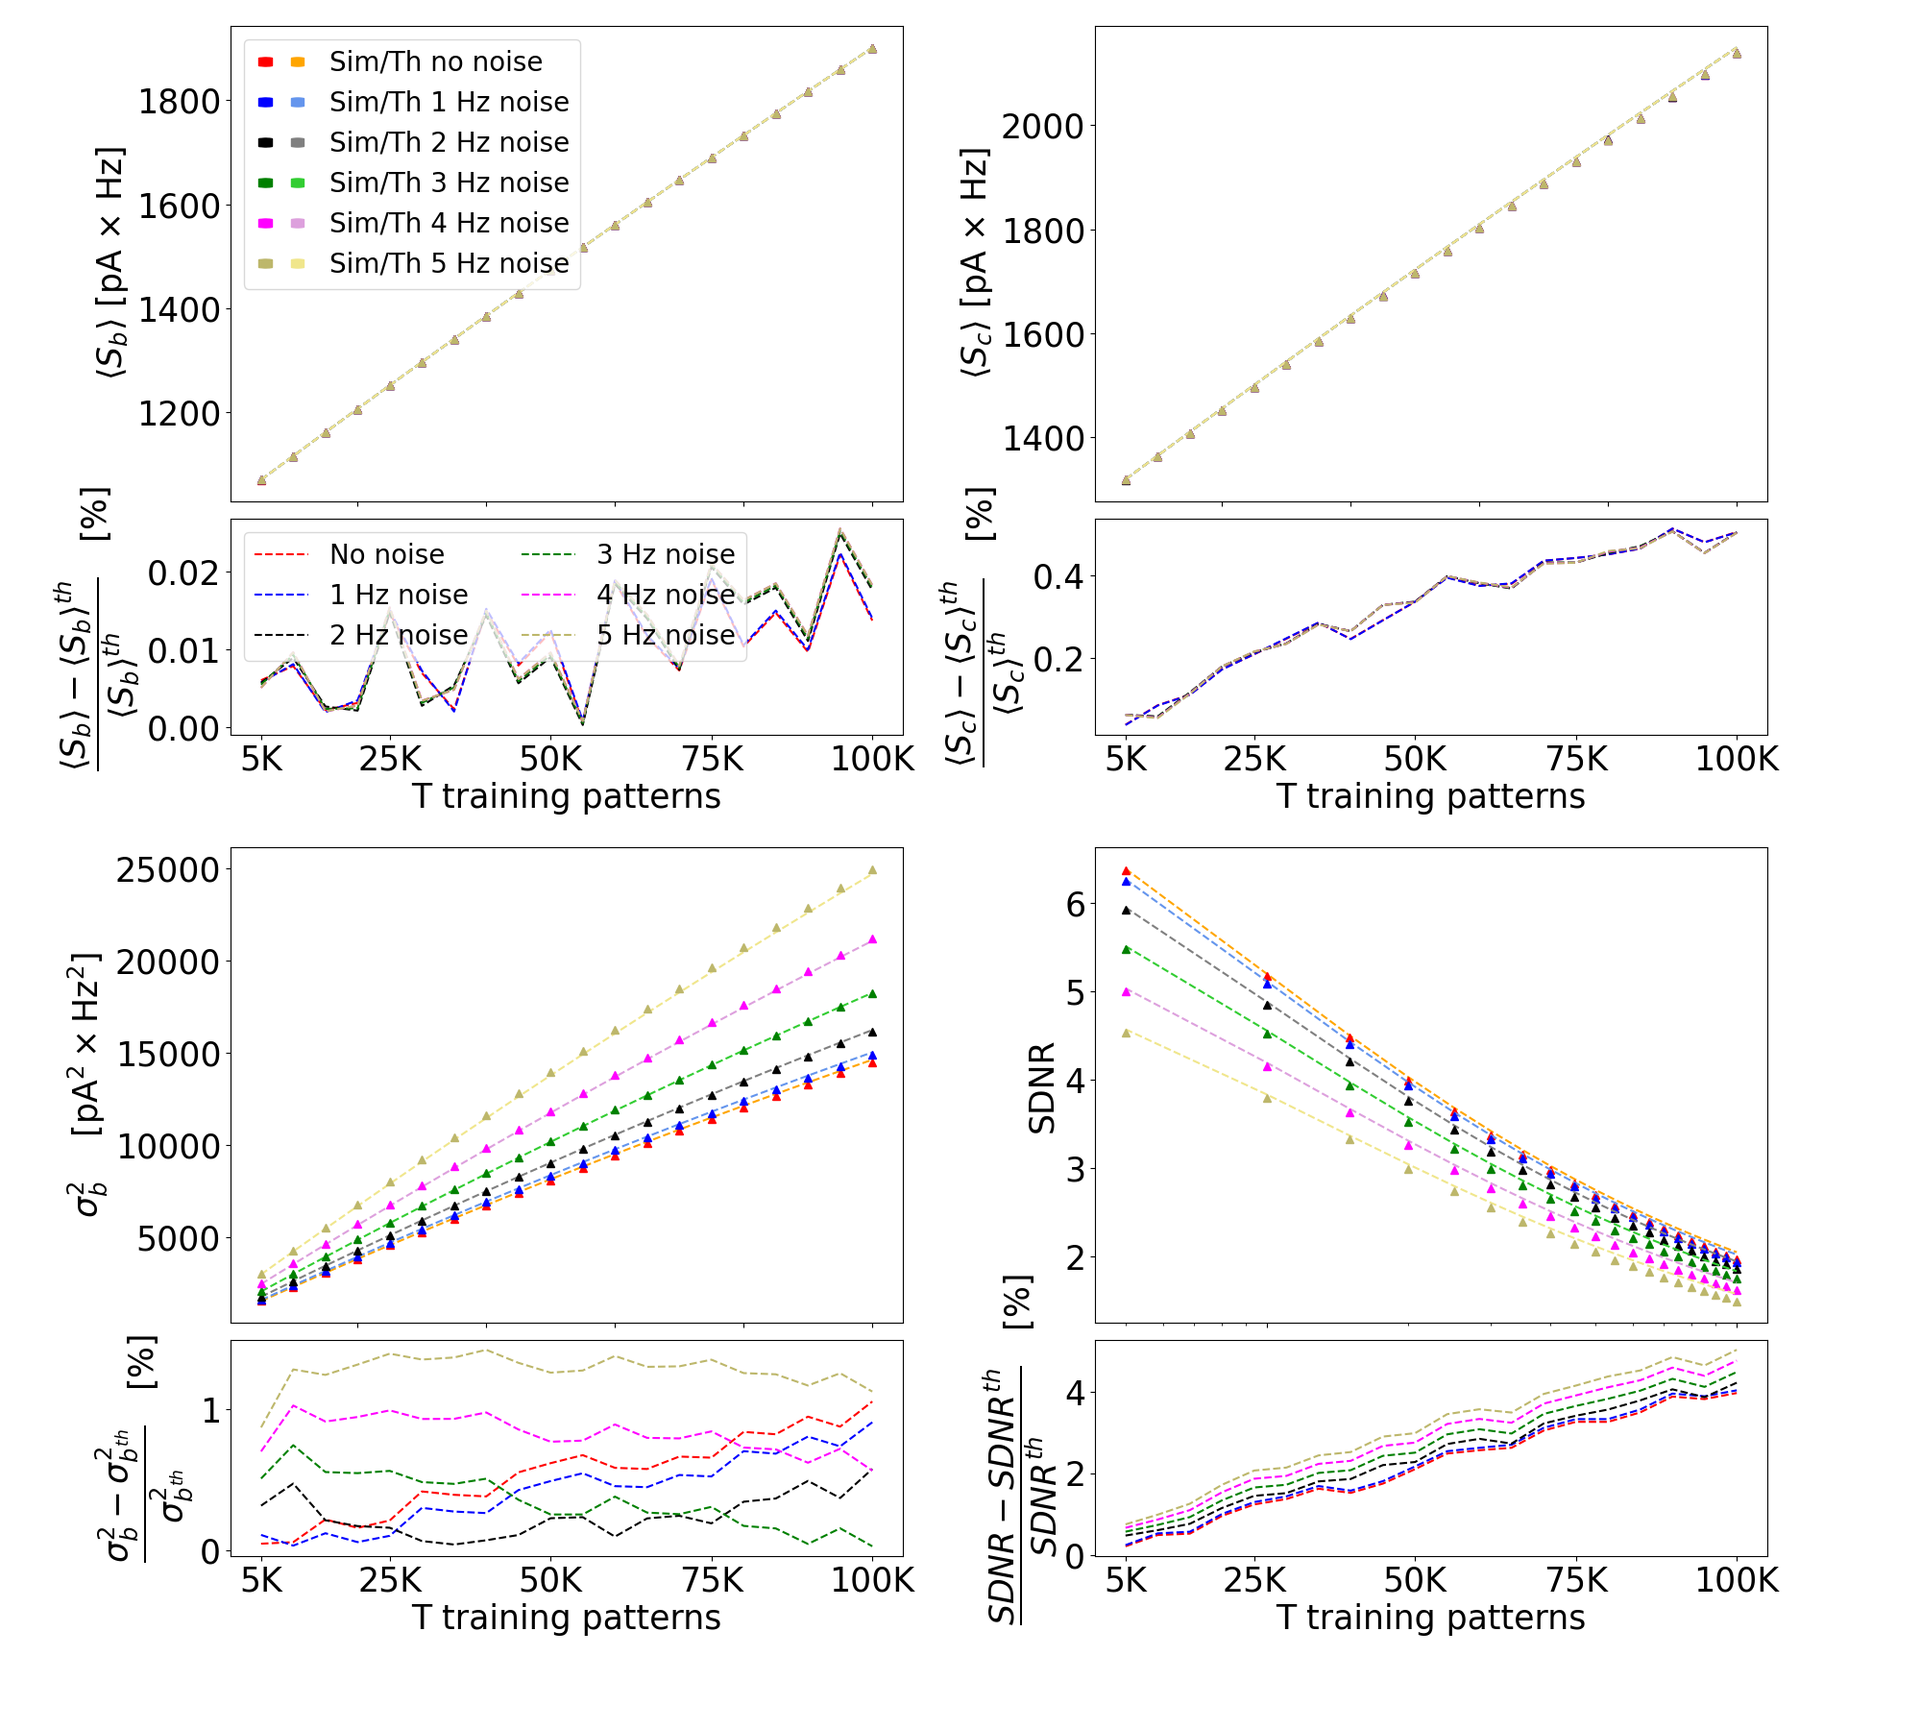
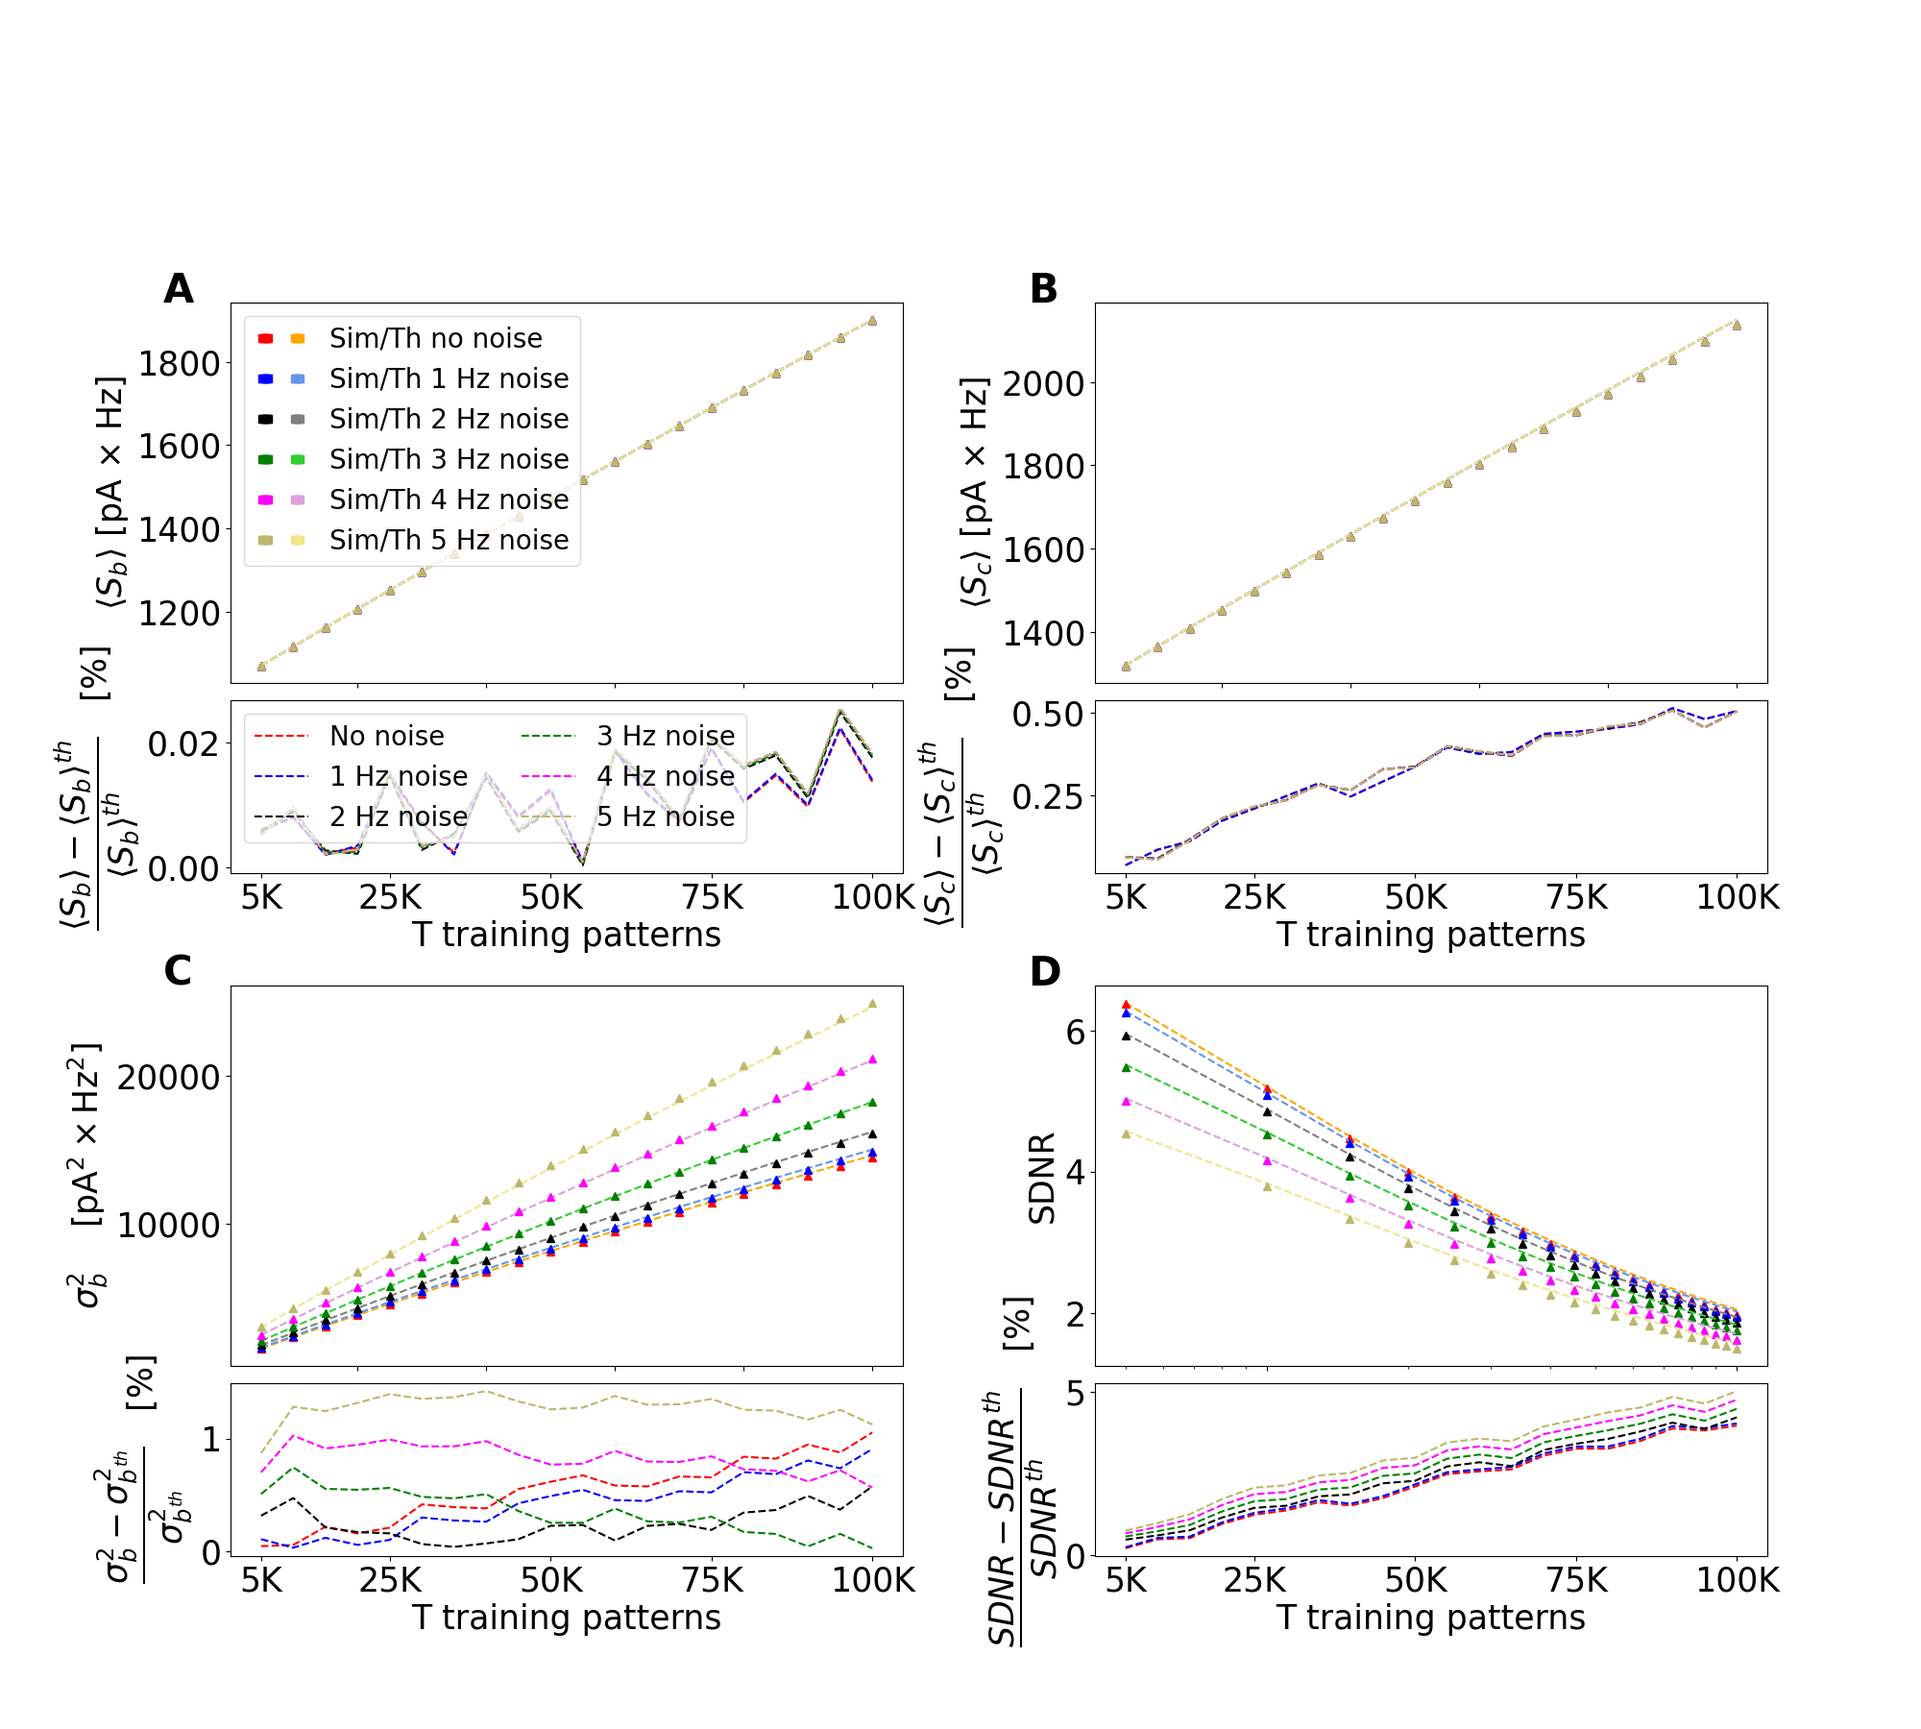
Updated with new plots

diff --git a/plot/plot.py b/plot/plot.py
@@ -275,6 +275,7 @@ def plot_data(discr, th_discr, ln, th_ln, ln_noise, th_ln_noise):
     ax7 = axs[3,0] # discrete rate - CNR
     ax8 = axs[3,1] # lognormal rate - CNR
 
+    ax1.text(-0.1, 0.95, "A", weight="bold", fontsize=30, color='k', transform=ax1.transAxes)
     ax1.set_title("Discrete rate model", fontsize=legend_fs)
     ax1.fill_between(discr['T'], discr['Sb_av']-discr['Sb_std'], discr['Sb_av']+discr['Sb_std'], color="red", alpha=0.2)
     ax1.plot(discr['T'], discr['Sb_av'], "-", color="blue", label="Simulation")
@@ -308,6 +309,7 @@ def plot_data(discr, th_discr, ln, th_ln, ln_noise, th_ln_noise):
     ax2.legend(fontsize=legend_fs, framealpha=1.0)
 
 
+    ax3.text(-0.1, 0.95, "C", weight="bold", fontsize=30, color='k', transform=ax3.transAxes)
     #ax3.fill_between(discr['T'], discr['varSb_av']-discr['varSb_std'], discr['varSb_av']+discr['varSb_std'], color="blue", alpha=0.2)
     ax3.plot(discr['T'], discr['varSb_av'], "-", color="blue", label="Simulation")
     ax3.plot(discr['T'], th_discr['varSb_th'], "--", color="red", label="Theory")
@@ -340,6 +342,7 @@ def plot_data(discr, th_discr, ln, th_ln, ln_noise, th_ln_noise):
 
 
     #ax5.fill_between(discr['T'], discr['S2_av']-discr['S2_std'], discr['S2_av']+discr['S2_std'], color="blue", alpha=0.2)
+    ax5.text(-0.1, 0.95, "C", weight="bold", fontsize=30, color='k', transform=ax5.transAxes)
     ax5.plot(discr['T'], discr['S2_av'], "-", color="blue", label="Simulation")
     ax5.plot(discr['T'], th_discr['S2_th'], "--", color="red", label="Theory")
     #ax5.set_xlabel("T training patterns", fontsize=tick_fs)
@@ -369,7 +372,7 @@ def plot_data(discr, th_discr, ln, th_ln, ln_noise, th_ln_noise):
     ax6.grid()
     #ax6.legend(title=r" $\langle S_c \rangle$", fontsize=legend_fs, title_fontsize=legend_fs, framealpha=1.0)
 
-
+    ax7.text(-0.1, 0.95, "D", weight="bold", fontsize=30, color='k', transform=ax7.transAxes)
     ax7.plot(discr['T'], np.abs(discr['S2_av']-discr['Sb_av'])/np.sqrt(discr['varSb_av']), "-", color="blue", label="Simulation")
     ax7.plot(discr['T'], np.abs(th_discr['S2_th']-th_discr['Sb_th'])/np.sqrt(th_discr['varSb_th']), "--", color="red", label="Theory")
     ax7.set_xlabel("T training patterns", fontsize=tick_fs)
@@ -416,7 +419,15 @@ def plot_data_luca(discr, th_discr, ln, th_ln, ln_noise, th_ln_noise):
 
     """
 
+
     # fontsize params
+    import matplotlib.pyplot as plt
+    from matplotlib.ticker import FuncFormatter
+
+# Funzione per formattare gli esponenti
+    def format_exp(value, pos):
+         return f"{value:.0e}"
+
     legend_fs = 21
     tick_fs = 25
 
@@ -426,7 +437,8 @@ def plot_data_luca(discr, th_discr, ln, th_ln, ln_noise, th_ln_noise):
     ax3 = axs[1,0] # discrete rate - varSb
     ax4 = axs[1,1] # lognormal rate - varSb
 
-
+   # ax1.yaxis.set_major_formatter(FuncFormatter(format_exp))
+    ax1.text(-0.1, 0.95, "A", weight="bold", fontsize=30, color='k', transform=ax1.transAxes)
     ax1.plot(discr['T'], discr['Sb_av'], "^", color="blue", label="Discrete rate")
     ax1.plot(ln['T'], ln['Sb_av'], ".", color="red", label="Continuous rate")
     ax1.set_ylabel(r"$\langle S_b \rangle$ [pA $\times$ Hz]", fontsize=tick_fs)
@@ -438,6 +450,9 @@ def plot_data_luca(discr, th_discr, ln, th_ln, ln_noise, th_ln_noise):
     #ax1.legend(title=r"$\langle S_b \rangle$", title_fontsize=legend_fs, fontsize=legend_fs, framealpha=1.0)
     ax1.legend(fontsize=legend_fs, framealpha=1.0)
 
+    #ax2.yaxis.set_major_formatter(FuncFormatter(format_exp))
+    ax2.text(-0.1, 0.95, "B", weight="bold", fontsize=30, color='k', transform=ax2.transAxes)
+    #ax2.set_ylim(1000,19000)ax2.set_ylim(1000,19000)
     ax2.plot(discr['T'], discr['S2_av'], "^", color="blue", label="Discrete rate")
     ax2.plot(ln['T'], ln['S2_av'], ".", color="red", label="Continuous rate")
     ax2.set_ylabel(r"$\langle S_c \rangle$ [pA $\times$ Hz]", fontsize=tick_fs)
@@ -449,7 +464,9 @@ def plot_data_luca(discr, th_discr, ln, th_ln, ln_noise, th_ln_noise):
     #ax2.legend(title=r"$\langle S_c \rangle$", title_fontsize=legend_fs, fontsize=legend_fs, framealpha=1.0)
     ax2.legend(fontsize=legend_fs, framealpha=1.0)
 
-
+    ax3.set_ylim(1000,17000)
+    #ax3.yaxis.set_major_formatter(FuncFormatter(format_exp))
+    ax3.text(-0.1, 0.95, "C", weight="bold", fontsize=30, color='k', transform=ax3.transAxes)
     ax3.plot(discr['T'], discr['varSb_av'], "^", color="blue", label="Discrete rate")
     ax3.plot(ln['T'], ln['varSb_av'], ".", color="red", label="Continuous rate")
     ax3.set_xlabel("T training patterns", fontsize=tick_fs)
@@ -461,7 +478,8 @@ def plot_data_luca(discr, th_discr, ln, th_ln, ln_noise, th_ln_noise):
     #ax3.legend(title=r"$\sigma^2_b$", fontsize=legend_fs, title_fontsize=legend_fs, framealpha=1.0)
     ax3.legend(fontsize=legend_fs, framealpha=1.0)
 
-
+    #ax4.yaxis.set_major_formatter(FuncFormatter(format_exp))
+    ax4.text(-0.1, 0.95, "D", weight="bold", fontsize=30, color='k', transform=ax4.transAxes)
     ax4.plot(discr['T'], np.abs(discr['S2_av']-discr['Sb_av'])/np.sqrt(discr['varSb_av']), "^", color="blue", label="Discrete rate")
     ax4.plot(ln['T'], np.abs(ln['S2_av']-ln['Sb_av'])/np.sqrt(ln['varSb_av']), ".", color="red", label="Continuous rate")
     ax4.set_xlabel("T training patterns", fontsize=tick_fs)

diff --git a/plot/plot_residui.py b/plot/plot_residui.py
@@ -275,8 +275,9 @@ def plot_data(discr, th_discr, ln, th_ln, ln_noise, th_ln_noise, label, saturati
     fig, axs = plt.subplots(ncols=2, nrows=4, figsize = (20,18), constrained_layout=False,gridspec_kw={'height_ratios': heights})
 
     #plot lognormal model
-    fig1, axs1 = plt.subplots(ncols=2, nrows=4, figsize = (20,18), constrained_layout=False,gridspec_kw={'height_ratios': heights})
-
+    #fig1, axs1 = plt.subplots(ncols=2, nrows=4, figsize = (20,18), constrained_layout=False,gridspec_kw={'height_ratios': heights})
+    fig1, axs1 = plt.subplots(ncols=2, nrows=4, figsize = (20,18),constrained_layout=True,gridspec_kw={'height_ratios': heights})
+  
     #subplots of discrete model
     ax1 = axs[0,0] # discrete rate - Sb
     ax2 = axs[1,0] # residue - Sb
@@ -302,12 +303,12 @@ def plot_data(discr, th_discr, ln, th_ln, ln_noise, th_ln_noise, label, saturati
     #parameters of grid
     y_begin=0.1
     x_begin=0.12
-    height_res=0.125
-    height_dat=0.275
+    height_res=0.1
+    height_dat=0.22
     space_s=0.01
     space_l=0.065
     central_space=0.1
-    h_space=0.2
+    h_space=0.5
     width_g=0.35
 
 
@@ -475,7 +476,7 @@ def plot_data(discr, th_discr, ln, th_ln, ln_noise, th_ln_noise, label, saturati
     #ax9.plot(ln['T'], ln['Sb_av'], "-", color="blue", label="Sim - w/out noise")
     #ax9.plot(ln['T'], th_ln['Sb_th'], "--", color="cornflowerblue", label="Th - w/out noise")
     #ax9.fill_between(ln_noise['T'], ln_noise['Sb_av']-ln_noise['Sb_std'], ln_noise['Sb_av']+ln_noise['Sb_std'], color="cornflowerblue", alpha=0.2)
-    
+        
     l1_th, = ax9.plot(th_ln_noise[0]['T'], th_ln_noise[0]['Sb_th'], "--", color=th_colors[0], label="Th - " + label[0] + " noise")
     l1, = ax9.plot(ln_noise[0]['T'], ln_noise[0]['Sb_av'], "^", color=colors[0], label="Sim - " + label[0] + " noise")
 
@@ -494,7 +495,7 @@ def plot_data(discr, th_discr, ln, th_ln, ln_noise, th_ln_noise, label, saturati
     l6_th, = ax9.plot(th_ln_noise[5]['T'], th_ln_noise[5]['Sb_th'], "--", color=th_colors[5], label="Th - " + label[5] + " noise")
     l6, = ax9.plot(ln_noise[5]['T'], ln_noise[5]['Sb_av'], "^", color=colors[5], label="Sim - " + label[5] + " noise")
     
-
+    ax9.text(-0.1, 1, "A", weight="bold", fontsize=30, color='k', transform=ax9.transAxes)
     #ax9.set_xlabel("T (training patterns)", fontsize=tick_fs)
     ax9.set_ylabel(r"$\langle S_b \rangle$ [pA $\times$ Hz]", fontsize=tick_fs)
     ax9.tick_params(labelsize=tick_fs)
@@ -547,6 +548,7 @@ def plot_data(discr, th_discr, ln, th_ln, ln_noise, th_ln_noise, label, saturati
     #ax4.fill_between(ln['T'], ln['varSb_av']-ln['varSb_std'], ln['varSb_av']+ln['varSb_std'], color="blue", alpha=0.2)
     #ax11.plot(ln['T'], ln['varSb_av'], "-", color="blue", label="Sim - w/out noise")
     #ax11.plot(ln['T'], th_ln['varSb_th'], "--", color="cornflowerblue", label="Th - w/out noise")
+    ax11.text(-0.1, 1, "C", weight="bold", fontsize=30, color='k', transform=ax11.transAxes)
     for i in range(len(ln_noise)):
         ax11.plot(ln_noise[i]['T'], th_ln_noise[i]['varSb_th'], "--", color=th_colors[i], label="Th - " + label[i] + " noise")
         ax11.plot(ln_noise[i]['T'], ln_noise[i]['varSb_av'], "^", color=colors[i], label="Sim - " + label[i] + " noise")
@@ -584,6 +586,7 @@ def plot_data(discr, th_discr, ln, th_ln, ln_noise, th_ln_noise, label, saturati
 
 
     #ax6.fill_between(ln_noise['T'], ln_noise['S2_av']-ln_noise['S2_std'], ln_noise['S2_av']+ln_noise['S2_std'], color="cornflowerblue", alpha=0.2)
+    ax13.text(-0.1, 1, "B", weight="bold", fontsize=30, color='k', transform=ax13.transAxes)
     for i in range(len(ln_noise)):
         ax13.plot(ln_noise[i]['T'], th_ln_noise[i]['S2_th'], "--", color=th_colors[i], label="Th - " + label[i] + " noise")
         ax13.plot(ln_noise[i]['T'], ln_noise[i]['S2_av'], "^", color=colors[i], label="Sim - " + label[i] + " noise")
@@ -630,6 +633,7 @@ def plot_data(discr, th_discr, ln, th_ln, ln_noise, th_ln_noise, label, saturati
 
 
     #ax15.set_xlabel("T (training patterns)", fontsize=tick_fs)
+    ax15.text(-0.1, 1, "D", weight="bold", fontsize=30, color='k', transform=ax15.transAxes)
     ax15.set_ylabel(r"SDNR", fontsize=tick_fs)
     ax15.tick_params(labelsize=tick_fs)
     ax15.set_xscale('log')

diff --git a/plot/plot_variable_rewiring.py b/plot/plot_variable_rewiring.py
@@ -282,6 +282,7 @@ def plot_data(data, th_data):
     ax7 = axs[1,1]
 
     #ax1.fill_between(data['t'][1:], data['Sb_av'][1:]-data['Sb_std'][1:], data['Sb_av'][1:]+data['Sb_std'][1:], color="blue", alpha=0.2)
+    ax1.text(-0.1, 1.05, "A", weight="bold", fontsize=30, color='k', transform=ax1.transAxes)
     ax1.errorbar(data['t'][1:], data['Sb_av'][1:], fmt="o", linestyle="", yerr=data['Sb_std'][1:], color="blue", label="w/ rewiring")
     ax1.plot(data['t'][0], data['Sb_av'][0], "o", markersize=10, color="red", label="w/out rewiring")
     ax1.legend(fontsize=legend_fs, framealpha=1.0)
@@ -295,6 +296,7 @@ def plot_data(data, th_data):
     ax1.grid()
     
     #ax3.fill_between(data['t'][1:], data['varSb_av'][1:]-data['varSb_std'][1:], data['varSb_av'][1:]+data['varSb_std'][1:], color="blue", alpha=0.2)
+    ax3.text(-0.1, 1.05, "B", weight="bold", fontsize=30, color='k', transform=ax3.transAxes)
     ax3.errorbar(data['t'][1:], data['varSb_av'][1:], fmt="o", linestyle="", yerr=data['varSb_std'][1:], color="blue", label="w/ rewiring")
     ax3.plot(data['t'][0], data['varSb_av'][0], "o", markersize=10, color="red", label="w/out rewiring")
     #ax3.plot(data['t'], th_data['varSb_th'], "--", color="red", label="Theory")
@@ -307,7 +309,7 @@ def plot_data(data, th_data):
     #ax3.set_xticklabels([])
     #ax3.legend(fontsize=legend_fs, framealpha=1.0)
 
-
+    ax5.text(-0.1, 1.05, "C", weight="bold", fontsize=30, color='k', transform=ax5.transAxes)
     #ax5.fill_between(data['t'][1:], data['S2_av'][1:]-data['S2_std'][1:], data['S2_av'][1:]+data['S2_std'][1:], color="blue", alpha=0.2)
     ax5.errorbar(data['t'][1:], data['S2_av'][1:], fmt="o", linestyle="", yerr=data['S2_std'][1:], color="blue", label="w/ rewiring")
     ax5.plot(data['t'][0], data['S2_av'][0], "o", markersize=10, color="red", label="w/out rewiring")
@@ -321,7 +323,7 @@ def plot_data(data, th_data):
     #ax5.legend(fontsize=legend_fs, framealpha=1.0)
     #ax5.set_xticklabels([])
 
-
+    ax7.text(-0.1, 1.05, "D", weight="bold", fontsize=30, color='k', transform=ax7.transAxes)
     #ax7.fill_between(data['t'][1:], data['CNR_av'][1:]-data['CNR_std'][1:], data['CNR_av'][1:]+data['CNR_std'][1:], color="blue", alpha=0.2)
     ax7.errorbar(data['t'][1:], data['CNR_av'][1:], fmt="o", linestyle="", yerr=data['CNR_std'][1:], color="blue", label="w/ rewiring")
     ax7.plot(data['t'][0], data['CNR_av'][0], "o", markersize=10, color="red", label="w/out rewiring")

diff --git a/plot/plot_no_rew.py b/plot/plot_no_rew.py
@@ -308,6 +308,7 @@ def plot_data(discr, ln,  ln_noise,  norew_noise):
 
 
     plt.figure(1)
+    ax1.text(-0.1, 0.95, "A", weight="bold", fontsize=30, color='k', transform=ax1.transAxes)
     #ax1.set_title("Discrete rate model", fontsize=legend_fs)
     #ax1.fill_between(discr['T'], discr['Sb_av']-discr['Sb_std'], discr['Sb_av']+discr['Sb_std'], color="red", alpha=0.2)
     ax1.plot(ln_noise['T'], ln_noise['Sb_av'], "o", color="blue", label="w/ rewiring")
@@ -347,7 +348,7 @@ def plot_data(discr, ln,  ln_noise,  norew_noise):
     ax2.set_xticklabels(["5K", "25K", "50K", "75K", "100K"])
     # ax2.grid()
 
-    
+    ax3.text(-0.1, 1, "C", weight="bold", fontsize=30, color='k', transform=ax3.transAxes)
     ax3.plot(ln_noise['T'], ln_noise['varSb_av'], "o", color="blue", label="w/ rewiring")
     ax3.plot(norew_noise['T'], norew_noise['varSb_av'],"^", markersize=5, color="red", label="w/out rewiring")
     ax3.legend(fontsize=legend_fs, framealpha=1.0)
@@ -366,7 +367,8 @@ def plot_data(discr, ln,  ln_noise,  norew_noise):
     ax4.tick_params(labelsize=tick_fs)
     ax4.set_xticks([5000, 25000, 50000, 75000, 100000])
     ax4.set_xticklabels(["5K", "25K", "50K", "75K", "100K"])
-    
+
+    ax5.text(-0.1, 0.95, "B", weight="bold", fontsize=30, color='k', transform=ax5.transAxes)
     ax5.plot(ln_noise['T'], ln_noise['S2_av'], "o", color="blue", label="w/ rewiring")
     ax5.plot(norew_noise['T'], norew_noise['S2_av'], "^", markersize=5, color="red", label="w/out rewiring")
     #ax5.set_xlabel("T (training patterns)", fontsize=tick_fs)
@@ -393,6 +395,7 @@ def plot_data(discr, ln,  ln_noise,  norew_noise):
     ax7.plot(norew_noise['T'], np.abs(norew_noise['S2_av']-norew_noise['Sb_av'])/np.sqrt(norew_noise['varSb_av']), "^", markersize=5, color="red", label="w/out rewiring")
 
    # ax7.set_xlabel("T (training patterns)", fontsize=tick_fs)
+    ax7.text(-0.1, 1, "D", weight="bold", fontsize=30, color='k', transform=ax7.transAxes)
     ax7.set_ylabel(r"SDNR", fontsize=tick_fs)
     ax7.tick_params(labelsize=tick_fs)
     ax7.set_xticks([5000, 25000, 50000, 75000, 100000])
